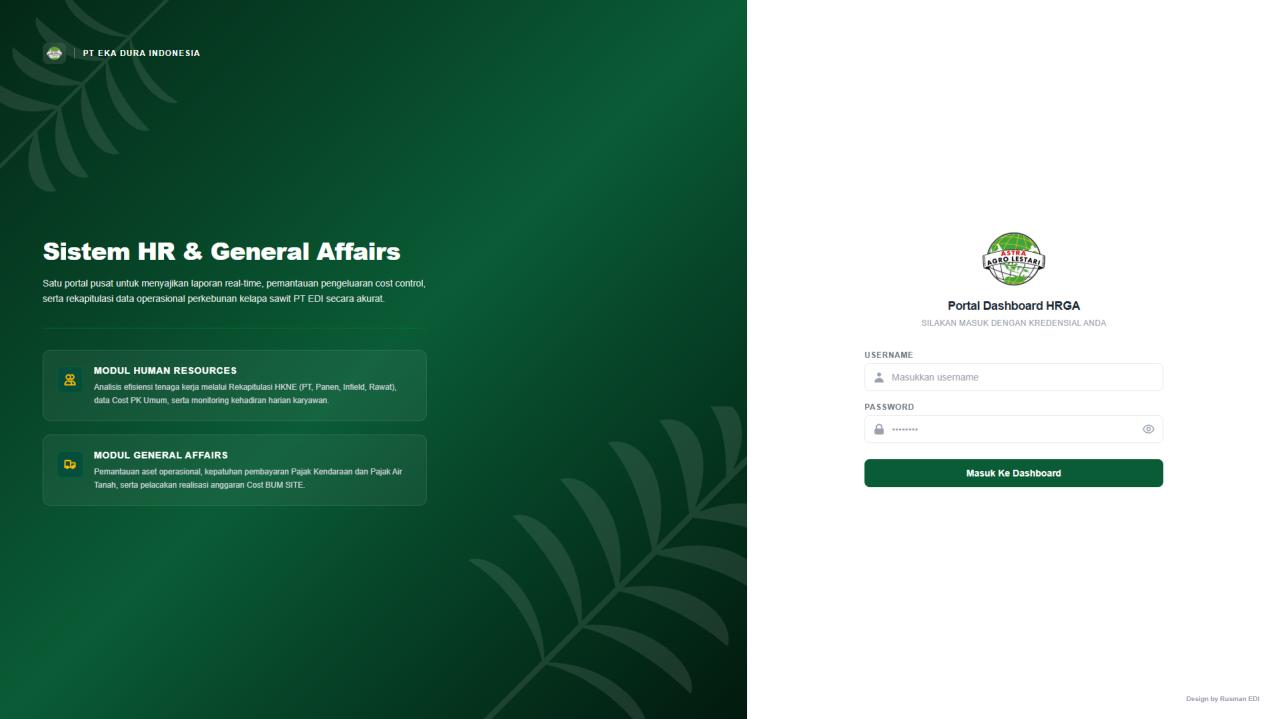
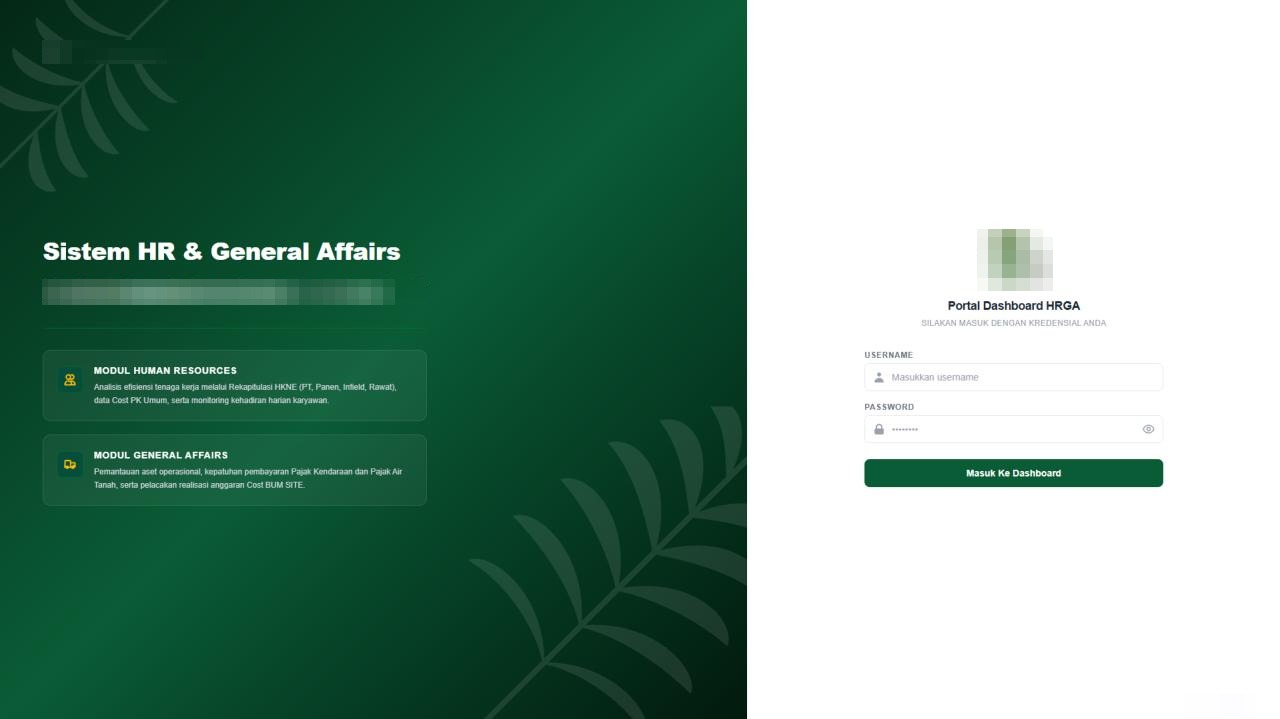
feat: add project/experience showcase components, global layout, smooth scrolling, and custom not-found page.

diff --git a/src/components/Experience.jsx b/src/components/Experience.jsx
@@ -5,15 +5,26 @@ import { motion } from 'framer-motion';
 
 const experiences = [
     {
+        title: 'Back End Developer',
+        company: 'PT Indolakto',
+        type: 'Internship',
+        date: 'Jul 2026 - Present',
+        duration: '2 mos',
+        location: 'Pasuruan, East Java, Indonesia',
+        locationType: 'On-site',
+        logo: '/images/logopt/logo-indolakto.png',
+        skills: ['Back-End Web Development', 'MQTT', 'IoT', 'REST API'],
+    },
+    {
         title: 'Web Developer',
-        company: 'PT. Eka Dura Indonesia',
+        company: 'PT. XYZ',
         type: 'Freelance',
         date: 'Jun 2026',
         duration: '1 mo',
         location: 'Indonesia',
         locationType: 'Remote',
-        description: 'Membangun aplikasi dashboard HR & GA (Human Resources & General Affairs) full-stack terintegrasi untuk PT Eka Dura Indonesia (anak usaha PT Astra Agro Lestari Tbk yang bergerak di bidang sawit). Dashboard ini mendigitalisasi pemantauan Hari Kerja Normal Efektif (HKNE) karyawan operasional (Panen, Infield, Rawat), absensi, serta pelacakan realisasi anggaran biaya. Dilengkapi pula dengan fitur manajemen aset dan jatuh tempo pajak kendaraan operasional untuk meminimalkan denda serta mendukung efisiensi biaya perusahaan secara real-time.',
-        logo: '/images/logopt/logo-astra-agro.png',
+        description: 'Membangun aplikasi dashboard HR & GA (Human Resources & General Affairs) full-stack terintegrasi untuk PT XYZ (perusahaan agribisnis kelapa sawit nasional). Dashboard ini mendigitalisasi pemantauan Hari Kerja Normal Efektif (HKNE) karyawan operasional (Panen, Infield, Rawat), absensi, serta pelacakan realisasi anggaran biaya. Dilengkapi fitur manajemen aset dan jatuh tempo pajak kendaraan operasional untuk meminimalkan denda serta mendukung efisiensi biaya secara real-time.',
+        initials: 'XYZ',
         media: '/images/projects/DashboardHRGA.jpg',
         skills: ['Full-Stack Development'],
     },
@@ -21,8 +32,8 @@ const experiences = [
         title: 'Back End Developer',
         company: 'UTERO INDONESIA',
         type: 'Internship',
-        date: 'Jan 2026 - Present',
-        duration: '4 mos',
+        date: 'Jan 2026 - Jun 2026',
+        duration: '6 mos',
         location: 'Kota Malang, East Java, Indonesia',
         locationType: 'On-site',
         logo: '/images/logopt/utero-logo.png',
@@ -54,14 +65,14 @@ const experiences = [
     },
     {
         title: 'Frontend Web Developer',
-        company: 'PT Sari Aditya Loka',
+        company: 'PT. XYZ',
         type: 'Freelance',
         date: 'Jul 2025 - Aug 2025',
         duration: '2 mos',
         location: 'Indonesia',
         locationType: 'Remote',
-        description: 'Berkolaborasi dengan stakeholder dari PT Sari Aditya Loka untuk memahami kebutuhan bisnis dan Key Performance Indicators (KPI) yang perlu dimonitor. Dashboard ini bertujuan untuk meningkatkan efisiensi operasional dan mendukung pengambilan keputusan strategis yang berbasis data untuk PT Sari Aditya Loka (anak usaha PT Astra Agro Lestari yang bergerak di bidang sawit)',
-        logo: '/images/logopt/logo-astra-agro.png',
+        description: 'Berkolaborasi dengan stakeholder dari PT XYZ untuk memahami kebutuhan bisnis dan Key Performance Indicators (KPI) yang perlu dimonitor. Dashboard ini bertujuan untuk meningkatkan efisiensi operasional dan mendukung pengambilan keputusan strategis berbasis data untuk perusahaan agribisnis/kelapa sawit nasional.',
+        initials: 'XYZ',
         skills: ['Front-End Development'],
     }
 ];
@@ -98,24 +109,22 @@ export default function Experience() {
                             <div className="flex flex-col md:flex-row gap-6 relative z-10">
                                 {/* Logo Section */}
                                 <div className="flex-shrink-0">
-                                    <div className="w-16 h-16 md:w-20 md:h-20 bg-slate-100 dark:bg-slate-700 rounded-xl flex items-center justify-center overflow-hidden border border-slate-200 dark:border-slate-600 shadow-sm group-hover:scale-105 transition-transform duration-300">
-                                        {/* Placeholder for actual image - using initials as fallback if image fails or is placeholder */}
-                                        <div className="relative w-full h-full">
-                                            {/* In a real scenario, you'd handle image error to show initials. 
-                             For now, we assume the user will replace valid paths. 
-                             We can add a text fallback layered behind/in-place. */}
-                                            <div className="absolute inset-0 flex items-center justify-center text-slate-400 font-bold text-2xl">
-                                                {exp.company.charAt(0)}
+                                    <div className="w-16 h-16 md:w-20 md:h-20 bg-slate-100 dark:bg-slate-700/80 rounded-xl flex items-center justify-center overflow-hidden border border-slate-200 dark:border-slate-600 shadow-sm group-hover:scale-105 transition-transform duration-300">
+                                        {exp.initials ? (
+                                            <div className="w-full h-full flex items-center justify-center bg-slate-200 dark:bg-slate-700 text-slate-700 dark:text-slate-200 font-extrabold text-xl md:text-2xl tracking-wider select-none">
+                                                {exp.initials}
                                             </div>
-                                            <Image
-                                                src={exp.logo}
-                                                alt={exp.company}
-                                                fill
-                                                sizes="80px"
-                                                className="object-cover"
-                                            // Fallback logic could go here, but omitted for simplicity
-                                            />
-                                        </div>
+                                        ) : (
+                                            <div className="relative w-full h-full">
+                                                <Image
+                                                    src={exp.logo}
+                                                    alt={exp.company}
+                                                    fill
+                                                    sizes="80px"
+                                                    className="object-cover"
+                                                />
+                                            </div>
+                                        )}
                                     </div>
                                 </div>
 

diff --git a/src/components/Projects.jsx b/src/components/Projects.jsx
@@ -104,9 +104,9 @@ const ProjectCard = ({ project, index, hoveredIndex, setHoveredIndex }) => (
 export default function Projects() {
   const realProjects = [
     {
-      title: 'Dashboard HR and GA - (PT Eka Dura Indonesia)',
+      title: 'Dashboard HR and GA - PT XYZ',
       period: 'Jun 2026',
-      description: 'Membangun aplikasi dashboard HR & GA (Human Resources & General Affairs) full-stack terintegrasi untuk PT Eka Dura Indonesia (anak usaha PT Astra Agro Lestari Tbk yang bergerak di bidang sawit). Dashboard ini mendigitalisasi pemantauan Hari Kerja Normal Efektif (HKNE) karyawan operasional (Panen, Infield, Rawat), absensi, serta pelacakan realisasi anggaran biaya. Dilengkapi pula dengan fitur manajemen aset dan jatuh tempo pajak kendaraan operasional untuk meminimalkan denda serta mendukung efisiensi biaya perusahaan secara real-time.',
+      description: 'Membangun aplikasi dashboard HR & GA (Human Resources & General Affairs) full-stack terintegrasi untuk PT XYZ (perusahaan agribisnis kelapa sawit nasional). Dashboard ini mendigitalisasi pemantauan Hari Kerja Normal Efektif (HKNE) karyawan operasional (Panen, Infield, Rawat), absensi, serta pelacakan realisasi anggaran biaya. Dilengkapi fitur manajemen aset dan jatuh tempo pajak kendaraan operasional untuk meminimalkan denda serta mendukung efisiensi biaya secara real-time.',
       image: '/images/projects/DashboardHRGA.jpg',
       tags: ['Next.js', 'TypeScript', 'Prisma ORM', 'MySQL'],
     },
@@ -127,9 +127,9 @@ export default function Projects() {
       link: 'https://djoe-orchid.vercel.app/',
     },
     {
-      title: 'Dashboard Daily Cost Production Site - (PT Sari Aditya Loka)',
+      title: 'Dashboard Daily Cost Production Site - (PT XYZ)',
       period: 'Jul 2025 - Agustus 2025',
-      description: 'Berkolaborasi dengan stakeholder dari PT Sari Aditya Loka untuk memahami kebutuhan bisnis dan Key Performance Indicators (KPI) yang perlu dimonitor. Dashboard ini bertujuan untuk meningkatkan efisiensi operasional dan mendukung pengambilan keputusan strategis yang berbasis data untuk PT Sari Aditya Loka (anak usaha PT Astra Agro Lestari yang bergerak di bidang sawit).',
+      description: 'Berkolaborasi dengan stakeholder dari PT XYZ untuk memahami kebutuhan bisnis dan Key Performance Indicators (KPI) yang perlu dimonitor. Dashboard ini bertujuan untuk meningkatkan efisiensi operasional dan mendukung pengambilan keputusan strategis berbasis data untuk perusahaan agribisnis/kelapa sawit nasional.',
       image: '/images/projects/costsite.png',
       tags: ['PHP', 'MySQL'],
     },

diff --git a/src/providers/SmoothScrollProvider.jsx b/src/providers/SmoothScrollProvider.jsx
@@ -1,7 +1,6 @@
 "use client";
 
 import { createContext, useContext, useEffect, useRef, useCallback } from 'react';
-import Lenis from 'lenis';
 
 // Throttle helper — limits how often a function can execute
 function throttle(fn, delay) {
@@ -104,14 +103,14 @@ export const SmoothScrollProvider = ({ children, snap = true }) => {
 
   useEffect(() => {
     // Create Lenis instance for smooth inertia scrolling
-    // smoothTouch MUST be false — enabling it hijacks native mobile scroll,
-    // runs a continuous RAF loop, and causes memory exhaustion + crash
-    lenisRef.current = new Lenis({
-      duration: 1.2,
-      easing: (t) => Math.min(1, 1.001 - Math.pow(2, -10 * t)),
-      smooth: true,
-      smoothTouch: false,
-      touchMultiplier: 1.2,
+    import('lenis').then(({ default: Lenis }) => {
+      lenisRef.current = new Lenis({
+        duration: 1.2,
+        easing: (t) => Math.min(1, 1.001 - Math.pow(2, -10 * t)),
+        smooth: true,
+        smoothTouch: false,
+        touchMultiplier: 1.2,
+      });
     });
 
     // RAF loop for Lenis — pauses when page is hidden to save resources

diff --git a/src/app/not-found.js b/src/app/not-found.js
@@ -1,0 +1,16 @@
+import Link from 'next/link';
+
+export default function NotFound() {
+  return (
+    <div className="min-h-screen flex flex-col items-center justify-center text-center px-4 bg-slate-900 text-white">
+      <h1 className="text-6xl font-bold mb-4">404</h1>
+      <p className="text-xl text-slate-400 mb-8">Halaman tidak ditemukan.</p>
+      <Link
+        href="/"
+        className="px-6 py-3 bg-sky-500 hover:bg-sky-600 rounded-full font-medium transition-colors"
+      >
+        Kembali ke Beranda
+      </Link>
+    </div>
+  );
+}

diff --git a/src/app/layout.js b/src/app/layout.js
@@ -4,7 +4,10 @@ import { SmoothScrollProvider } from '@/providers/SmoothScrollProvider';
 import { Analytics } from "@vercel/analytics/react";
 const inter = Inter({ subsets: ['latin'] });
 
+const baseUrl = process.env.NEXT_PUBLIC_SITE_URL || 'http://localhost:3000';
+
 export const metadata = {
+  metadataBase: new URL(baseUrl),
   title: 'Muhammad Naufal Pratomo - Portfolio',
   description: 'Portfolio website of Muhammad Naufal Pratomo, Web Developer',
   icons: {
